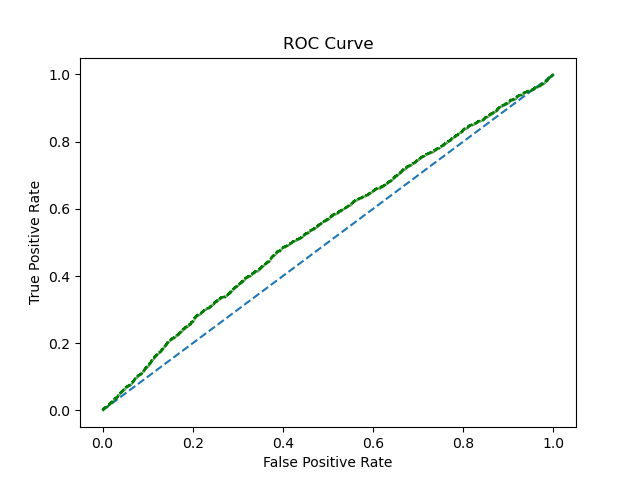
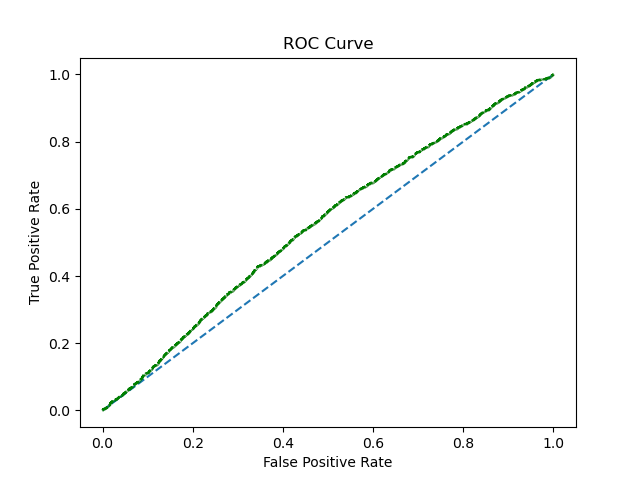
good weights but doesent give 89

diff --git a/Enhanced-ANN-GSGD/bayesian_parameter_tuning_guided.py b/Enhanced-ANN-GSGD/bayesian_parameter_tuning_guided.py
@@ -64,11 +64,11 @@ def train_evaluate(parameterization):
 def main_func():
     best_parameters, values, experiment, model = optimize(
         parameters=[
-            {"name": "lr", "type": "range", "bounds": [0.02, 0.03], "log_scale": True},
-            #{"name": "lambda", "type": "range", "bounds":[0.0,0.9]},
+            {"name": "lr", "type": "range", "bounds": [0.0001, 0.02], "log_scale": True},
+            {"name": "lambda", "type": "range", "bounds":[0.0,0.001]},
             #{"name": "momentum", "type": "range", "bounds":[1e-20, 1.0]},
             {"name": "n_hiddenA", "type": "range", "bounds": [1, 50]},
-            {"name": "batch_size", "type": "range", "bounds": [1, 1000]},        
+            {"name": "batch_size", "type": "range", "bounds": [1, 100]},        
             #{"name": "dampening", "type": "range", "bounds": [0.0, 0.9]},        
             {"name": "epochs", "type": "range", "bounds": [1, 30]},        
         ],
@@ -85,7 +85,7 @@ def main_func():
 def net_train(net, train_loader, parameters, dtype, device):
 
     l_rate = parameters.get("lr", 0.02)
-    lamda = 1e-06#parameters.get("lambda", 1e-05)  #Lambda will be used for L2 regularizaion
+    lamda = parameters.get("lambda", 1e-05)  #Lambda will be used for L2 regularizaion
     #momentum =  parameters.get("momentum", 0.9) 
     # dampening = parameters.get("dampening","0.9")
     betas = (0.9, 0.999)
@@ -123,8 +123,9 @@ def init_net(parameterization, d):
     #set architure of network here
     model = nn.Sequential(
                       nn.Linear(d, parameterization.get("n_hiddenA",300)),
+                      nn.BatchNorm1d(parameterization.get("n_hiddenA",300)),
                       nn.Sigmoid(),
-                      nn.Linear(parameterization.get("n_hiddenA", 300), 1),
+                      nn.Linear(parameterization.get("n_hiddenA",300), 1),
                       nn.Sigmoid()).to(device=device)
 
     return model # return untrained model

diff --git a/Enhanced-ANN-GSGD/main.py b/Enhanced-ANN-GSGD/main.py
@@ -29,9 +29,9 @@ def GSGD_ANN(filePath):
     NC, x, y, N, d, xts, yts = readData(filePath)
     
     #model parameters
-    l_rate =  0.02#0.019987676959698759#0.0001#0.0002314354244#9.309681215145698e-15#3.0952770286463463e-07#0.0003314354244#0.00011852732093870824#0.00010926827346753853 #0.0002814354245#0.0002216960781458557#0.0002314354244 #0.000885 #0.061 #0.00025 #0.5
+    l_rate =   0.020437449522561126#0.019987676959698759#0.0001#0.0002314354244#9.309681215145698e-15#3.0952770286463463e-07#0.0003314354244#0.00011852732093870824#0.00010926827346753853 #0.0002814354245#0.0002216960781458557#0.0002314354244 #0.000885 #0.061 #0.00025 #0.5
     n_hidden = 30#36#29#50#36#4
-    lamda =  1e-06#0.5964800918102662#0.06067045242012771#1e-05#0.6980844659683136 #1e-06#0.0001  #Lambda will be used for L2 regularizaion
+    lamda =  1e-06#0.00014659309759736062#0.5964800918102662#0.06067045242012771#1e-05#0.6980844659683136 #1e-06#0.0001  #Lambda will be used for L2 regularizaion
     betas = (0.9, 0.999)
     beta = 0.9
     epsilon = 1e-8
@@ -40,7 +40,7 @@ def GSGD_ANN(filePath):
     is_guided_approach = True
     rho = 20
     versetnum = 5 #number of batches used for verification
-    epochs = 30#27#15
+    epochs = 15#27#15
     revisitNum = 15
     batch_size = 40#812#122#468#300#891#32
 
